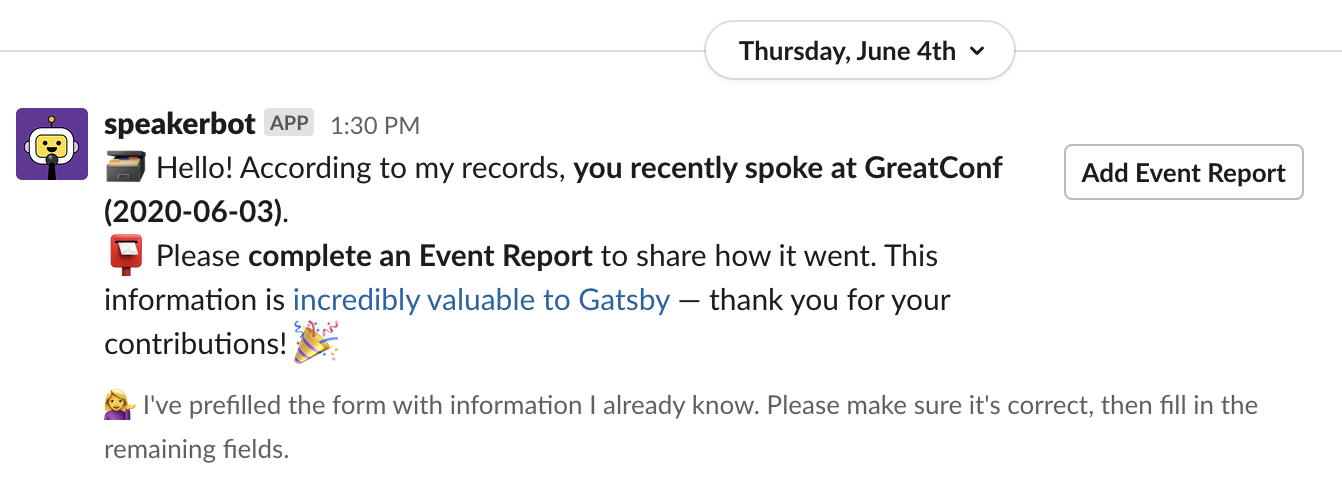
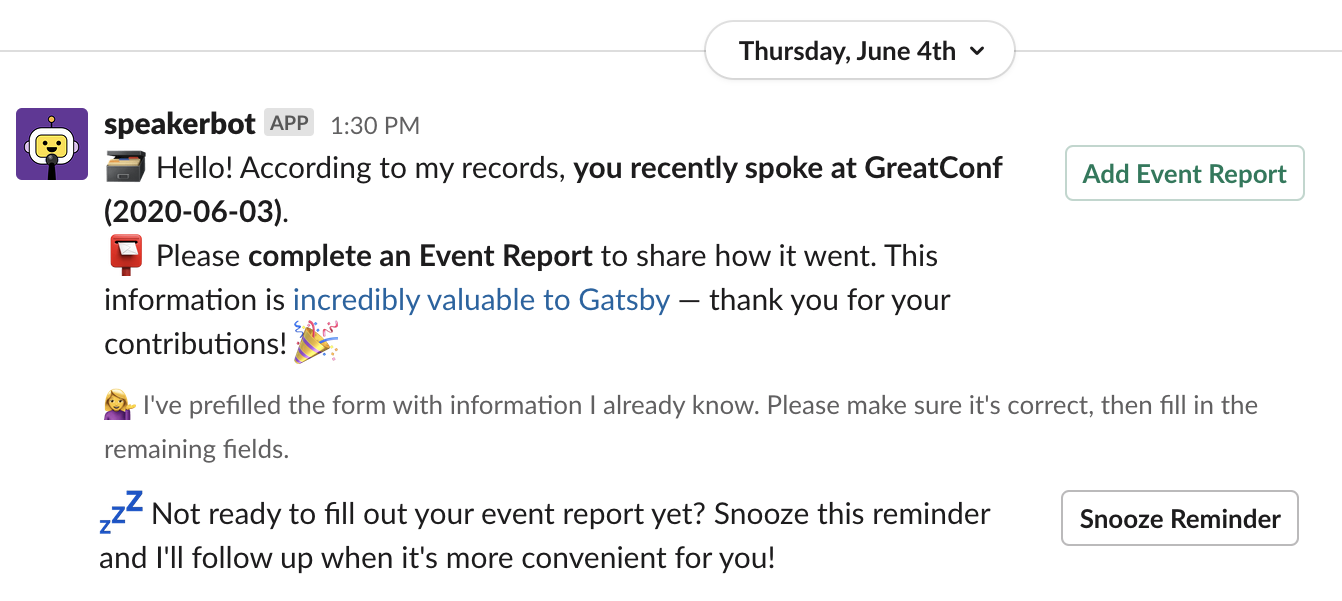
#4 - document followup snooze and fix some small code cleanup issues

diff --git a/index.js b/index.js
@@ -1,12 +1,8 @@
 require('dotenv').config();
 const { App } = require('@slack/bolt');
-// Airtable
 const at = require('./data/airtable');
-// Roundups
 const jobs = require('./schedule/jobs');
-// Utils
 const utils = require('./utils/utils');
-// MongoDB
 const mongoose = require('mongoose');
 const store = require('./data/settings-db');
 
@@ -78,5 +74,5 @@ require('./events/bot-dm')(app);
 ------------------*/
 (async () => {
   await app.start(port);
-  console.log(`⚡ gatsby-speakers is running on ${port}!`);
+  console.log(`⚡ gatsby-speakerbot is running on ${port}!`);
 })();

diff --git a/docs/usage.md b/docs/usage.md
@@ -48,6 +48,8 @@ If you have events that have already happened but do not have post-event reports
 
 When you submit a new upcoming speaking event, Speakerbot will notify you via DM _after your event date has elapsed_ to prompt you to fill out a post-event report. A button to do so will be provided in the message, with information prefilled from your event listing.
 
+You can also _snooze the post-event form reminder_. If your event is still ongoing, you're traveling, or you still have some things to catch up on before you fill out your report, you can snooze the reminder until a date you specify. 
+
 ![screenshot of DM followup](scheduled-followup.png)
 
 ## Admin
